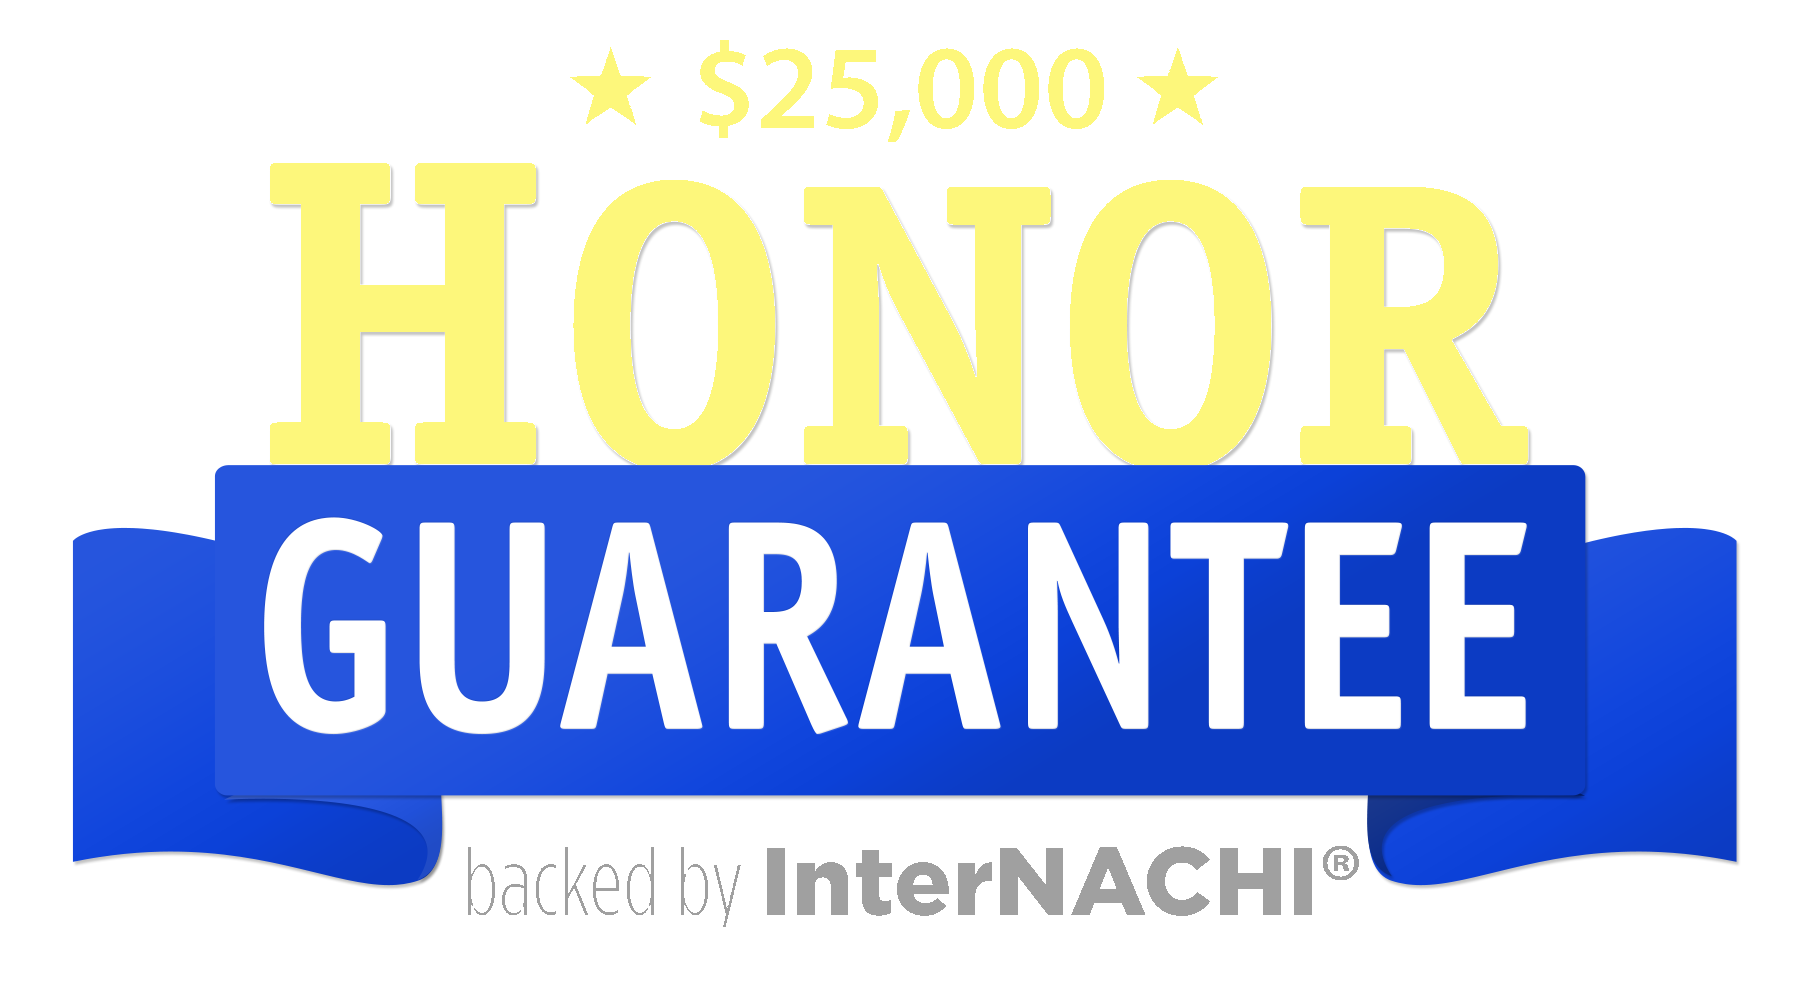
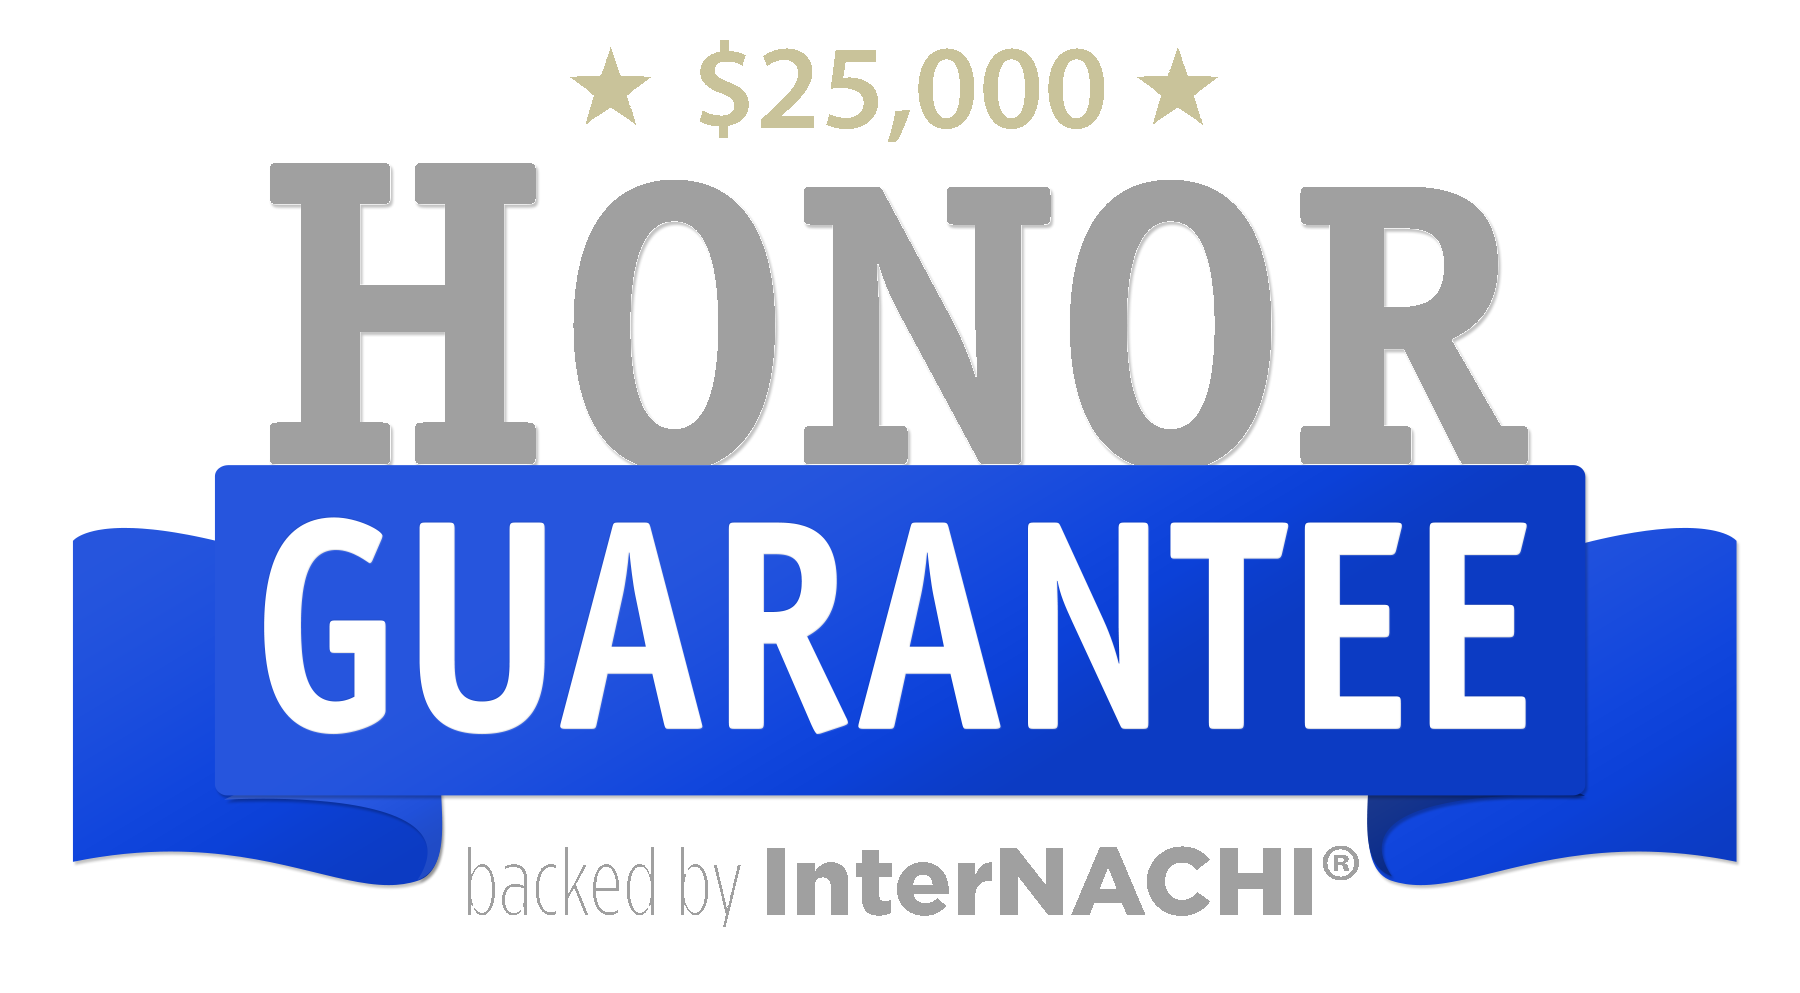
HONOR

Changed region(s): [[0.1244, 0.1561, 0.8711, 0.4683], [0.3111, 0.0312, 0.6844, 0.1561]]

diff --git a/public/index.html b/public/index.html
@@ -1107,27 +1107,27 @@
         <picture>
           <source
             
-              srcset="/images/HONOR_HIGH_LIGHT_BACKROUND_hu6a211a1d7c721dfe467c8a2db7c4fe41_160338_545x0_resize_q90_h2_lanczos_3.webp"
+              srcset="/images/HONOR_HIGH_COLOR_huc4620a21ebb58d0a91d5072bcd0174d7_173697_545x0_resize_q90_h2_lanczos_3.webp"
             
             media="(max-width: 575px)" />
           <source
             
-              srcset="/images/HONOR_HIGH_LIGHT_BACKROUND_hu6a211a1d7c721dfe467c8a2db7c4fe41_160338_600x0_resize_q90_h2_lanczos_3.webp"
+              srcset="/images/HONOR_HIGH_COLOR_huc4620a21ebb58d0a91d5072bcd0174d7_173697_600x0_resize_q90_h2_lanczos_3.webp"
             
             media="(max-width: 767px)" />
           <source
             
-              srcset="/images/HONOR_HIGH_LIGHT_BACKROUND_hu6a211a1d7c721dfe467c8a2db7c4fe41_160338_700x0_resize_q90_h2_lanczos_3.webp"
+              srcset="/images/HONOR_HIGH_COLOR_huc4620a21ebb58d0a91d5072bcd0174d7_173697_700x0_resize_q90_h2_lanczos_3.webp"
             
             media="(max-width: 991px)" />
           <source
             
-              srcset="/images/HONOR_HIGH_LIGHT_BACKROUND_hu6a211a1d7c721dfe467c8a2db7c4fe41_160338_1110x0_resize_q90_h2_lanczos_3.webp"
+              srcset="/images/HONOR_HIGH_COLOR_huc4620a21ebb58d0a91d5072bcd0174d7_173697_1110x0_resize_q90_h2_lanczos_3.webp"
              />
           <img
             
               loading="lazy" decoding="async"
-              src="/images/HONOR_HIGH_LIGHT_BACKROUND_hu6a211a1d7c721dfe467c8a2db7c4fe41_160338_1110x0_resize_lanczos_3.png"
+              src="/images/HONOR_HIGH_COLOR_huc4620a21ebb58d0a91d5072bcd0174d7_173697_1110x0_resize_lanczos_3.png"
             class="  img"
             alt="feature image"
             width="1800"
@@ -1174,7 +1174,7 @@
             </ul>
             
               
-                <a class="btn btn-primary mt-6" href="https://www.nachi.org/honor.htm">
+                <a class="btn btn-primary mt-6" href="https://www.nachi.org/honor.html">
                   More Details
                   <i class="fa fa-arrow-right pl-2"></i>
                 </a>

diff --git a/content/_index.md b/content/_index.md
@@ -27,7 +27,7 @@ features:
   
 
   - title: "Honesty Is Garanteed!"
-    image: "/images/HONOR_HIGH_LIGHT_BACKROUND.png"
+    image: "/images/HONOR_HIGH_COLOR.png"
     image_darkmode: "/images/HONOR_HIGH_DARK_BACKROUND.png"
     content: "Trust is a major part in choosing a home inspector. You don't have to rely on just my word, I've been backround checked by TREC and I am garanteed honest by InterNACHI® with the Honnor Garantee."
     bulletpoints:
@@ -38,7 +38,7 @@ features:
     button:
       enable: true
       label: "More Details"
-      link: "https://www.nachi.org/honor.htm"
+      link: "https://www.nachi.org/honor.html"
 
 
 
